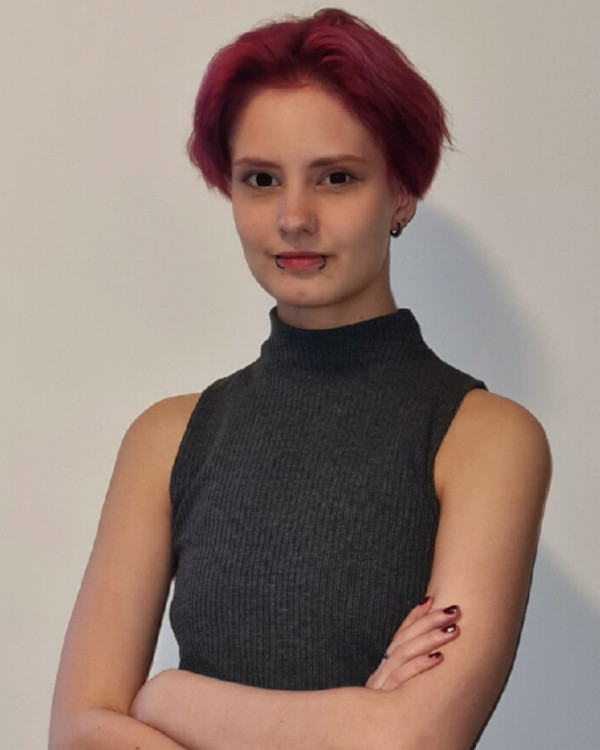
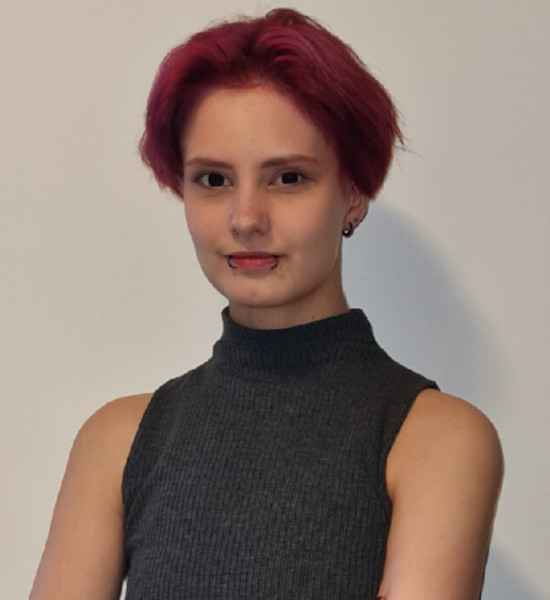
added profile picture, adjusted front page header section and scaling. also fixrd navigation z-index

diff --git a/styles.css b/styles.css
@@ -85,15 +85,20 @@ header {
   display: flex;
   flex-flow: row wrap;
   box-shadow: 1px 1px 2px #303030;
+  position: relative;
+  justify-content: center;
+  align-items: center;
 }
 
 article {
   width: 80%;
   margin: auto;
+  margin-top: 0;
 }
 
 nav {
   position: sticky;
+  z-index: 1000;
   top: 0;
   display: flex;
   flex-direction: row;
@@ -124,6 +129,12 @@ nav a:visited {
   width: 10%;
 }
 
+.profilePic {
+  width: 25%;
+  position: absolute;
+  left: 27.5%;
+}
+
 .frontPageHeader {
   width: 40%;
   margin-right: auto;
@@ -131,8 +142,7 @@ nav a:visited {
 }
 
 .frontPageHeader h1 {
-  padding-top: 50%;
-  padding-bottom: 10%;
+  padding-right: 30%;
 }
 
 .description {
@@ -183,7 +193,7 @@ nav a:visited {
   box-shadow: 1px 1px 5px black;
 }
 
-@media (min-width: 1200px) {
+@media (min-width: 1300px) {
   header, nav, article {
     width: 60%;
   }
@@ -194,16 +204,22 @@ nav a:visited {
     width: 100%;
     margin-left: 0;
     margin-right: 0;
+    position: static;
   }
 
   .frontPageHeader h1 {
     padding-top: 5%;
     padding-bottom: 5%;
   }
+
+  .skills {
+    margin-top: 30%;
+    margin-bottom: 30%;
+  }
   
   .textAreaLeft, .textAreaRight {
-    margin-top: 40%;
-    margin-bottom: 30%;
+    margin-top: 20%;
+    margin-bottom: 20%;
   }
 
   .description div {

diff --git a/index.html b/index.html
@@ -24,7 +24,7 @@
     </nav>
 
     <header>
-      <!-- <img class="profilePic" src="Profiilikuva.jpg"> -->
+      <img class="profilePic" src="Profiilikuva.jpg">
       <div class="frontPageHeader">
         <h1>Kuka olen?</h1>
       </div>
@@ -36,7 +36,7 @@
       </div>
     </header>
 
-    <article>
+    <article class="skills">
       <section class="textAreaLeft">
         <div class="header3Area">
           <h3>Koodauskielet</h3>
@@ -85,6 +85,7 @@
           <li>Asiakaspalvelutaidot</li>
           <li>Joustavuus</li>
         </ul>
+        </section>
       </article>
 </body>
 </html>
